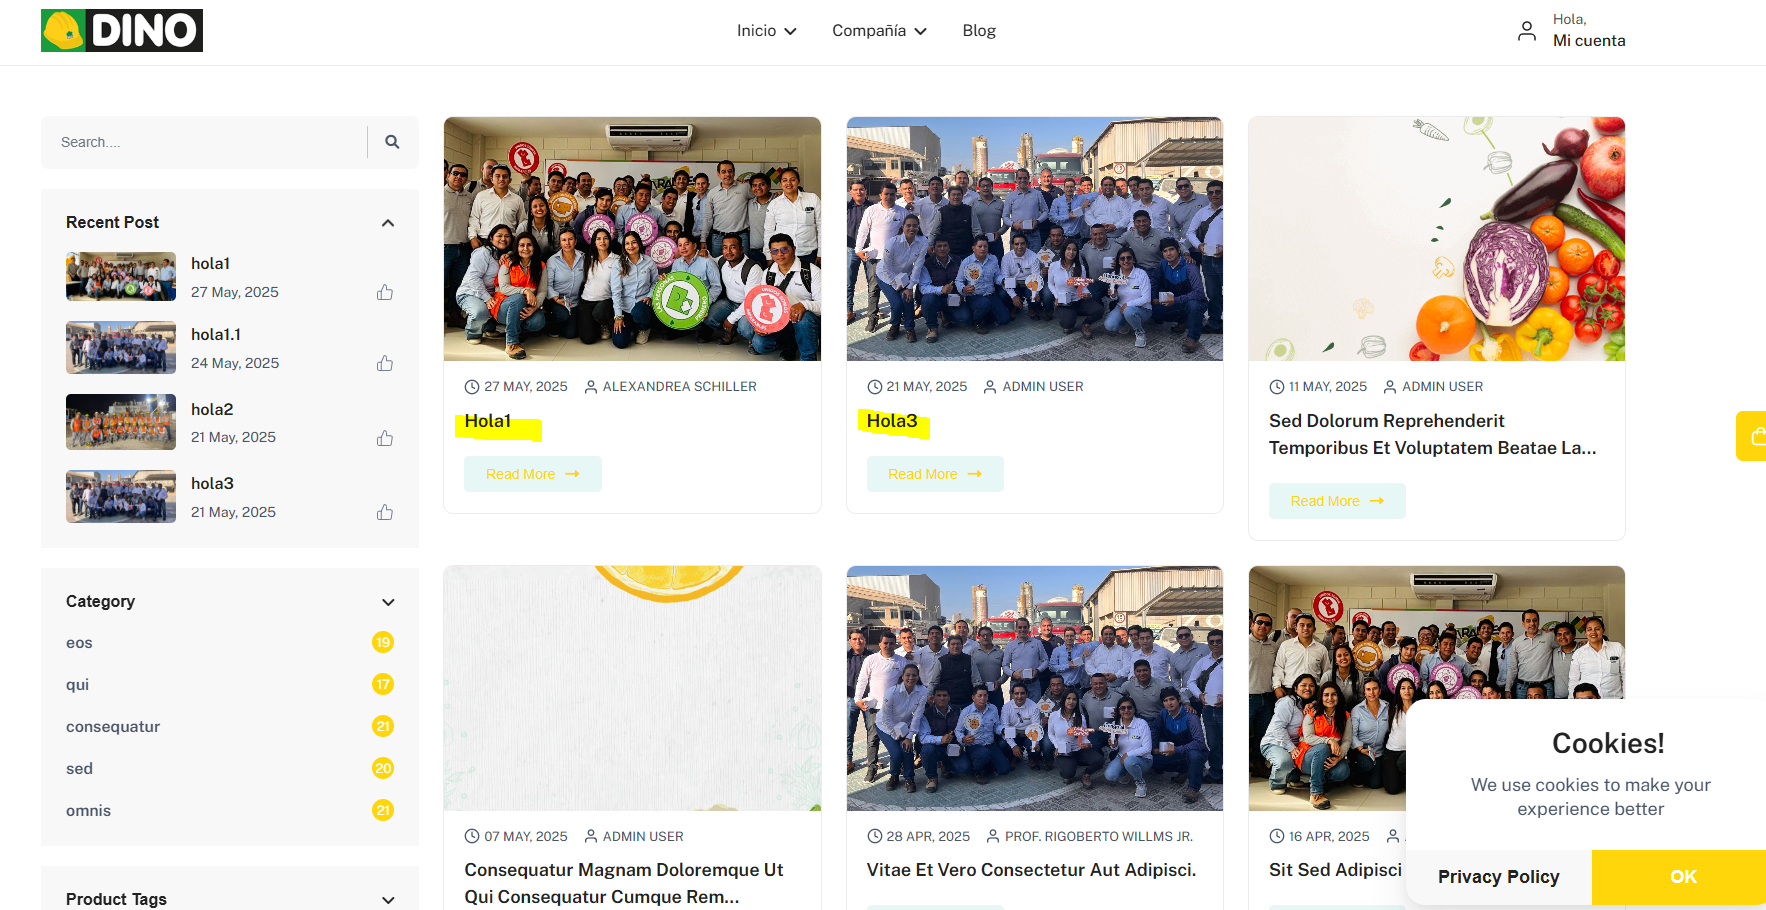
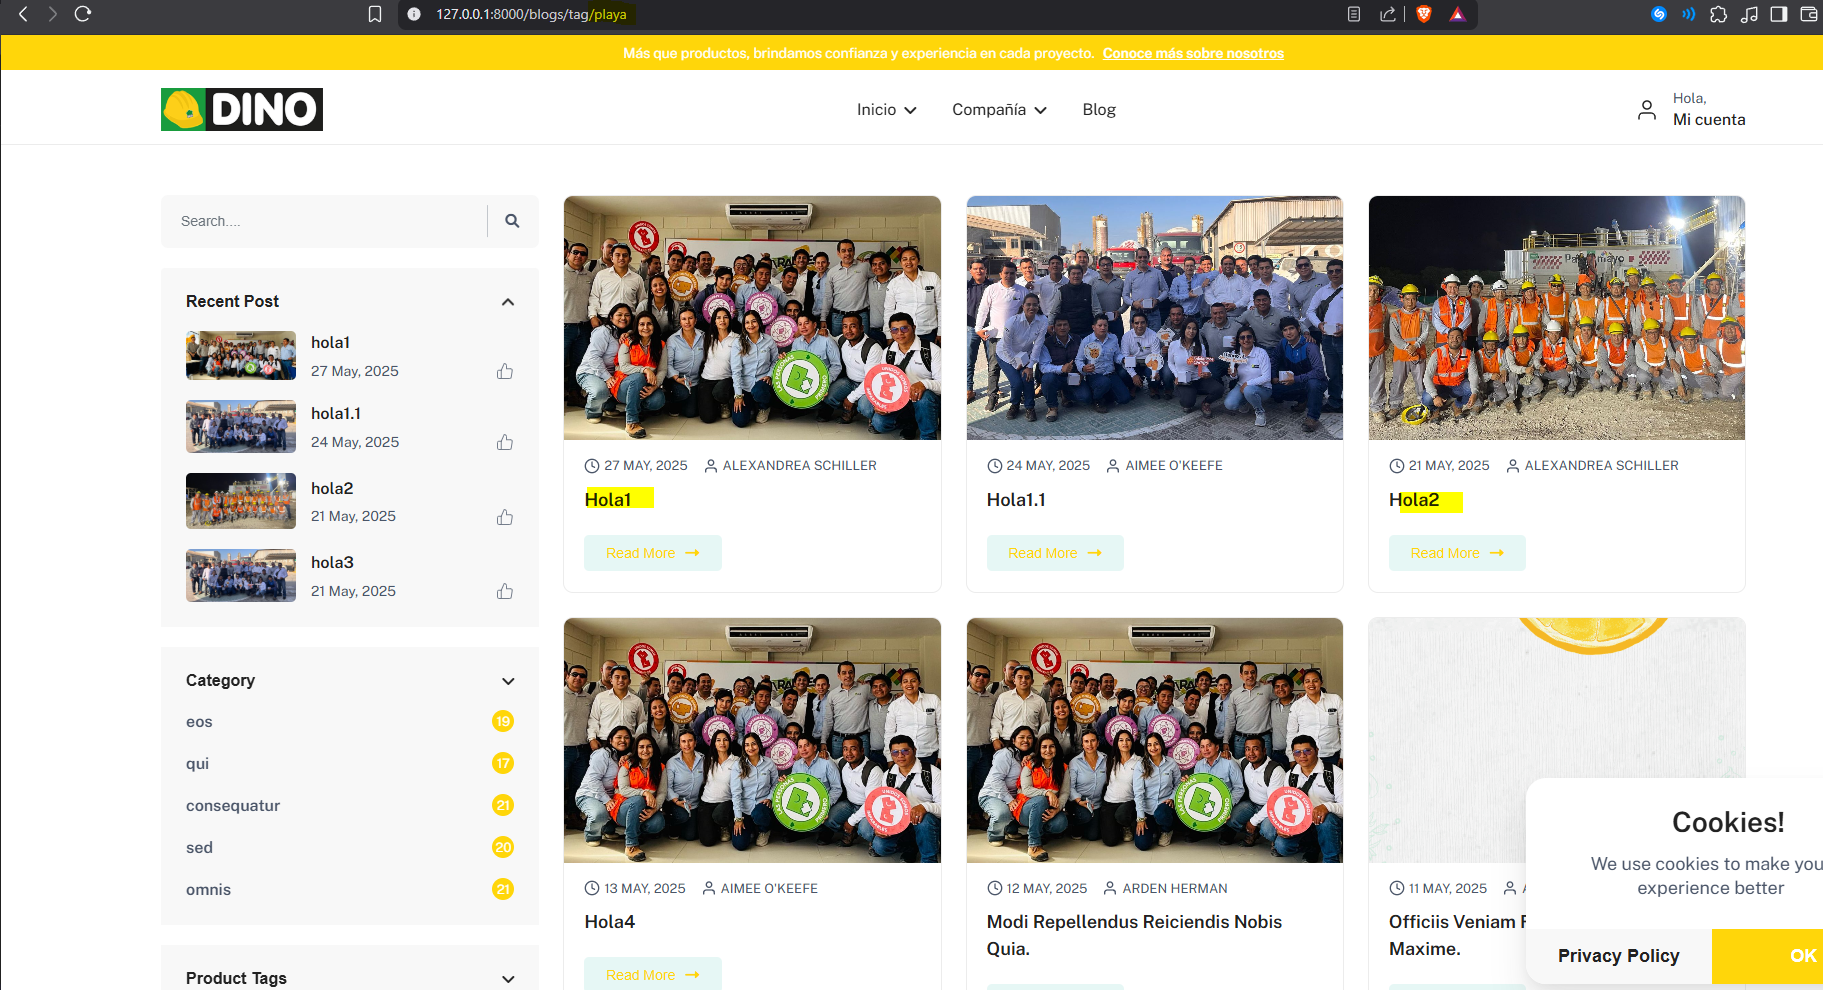
Se agrega tanto la ruta de los tags, ya que al machucar un click. te muestra solo a las publicaciones con esos tags. Se adjunta evidencia.

diff --git a/resources/views/blog/view.blade.php b/resources/views/blog/view.blade.php
@@ -120,7 +120,7 @@
                                             <ul>
                                                 @foreach ($post->tags as $tag)
                                                     <li>
-                                                        <a href="javascript:void(0)">{{ $tag->name }}</a>
+                                                        <a href="{{ route('posts.tag', $tag->slug) }}">{{ $tag->name }}</a>
                                                     </li>
                                                 @endforeach
                                             </ul>

diff --git a/resources/views/blog/index.blade.php b/resources/views/blog/index.blade.php
@@ -132,7 +132,7 @@
                                             <ul>
                                                 @foreach ($tags as $tag)
                                                     <li>
-                                                        <a href="javascript:void(0)">{{ $tag->name }}</a>
+                                                        <a href="{{ route('posts.tag', $tag->slug) }}">{{ $tag->name }}</a>
                                                     </li>
                                                 @endforeach
                                             </ul>
